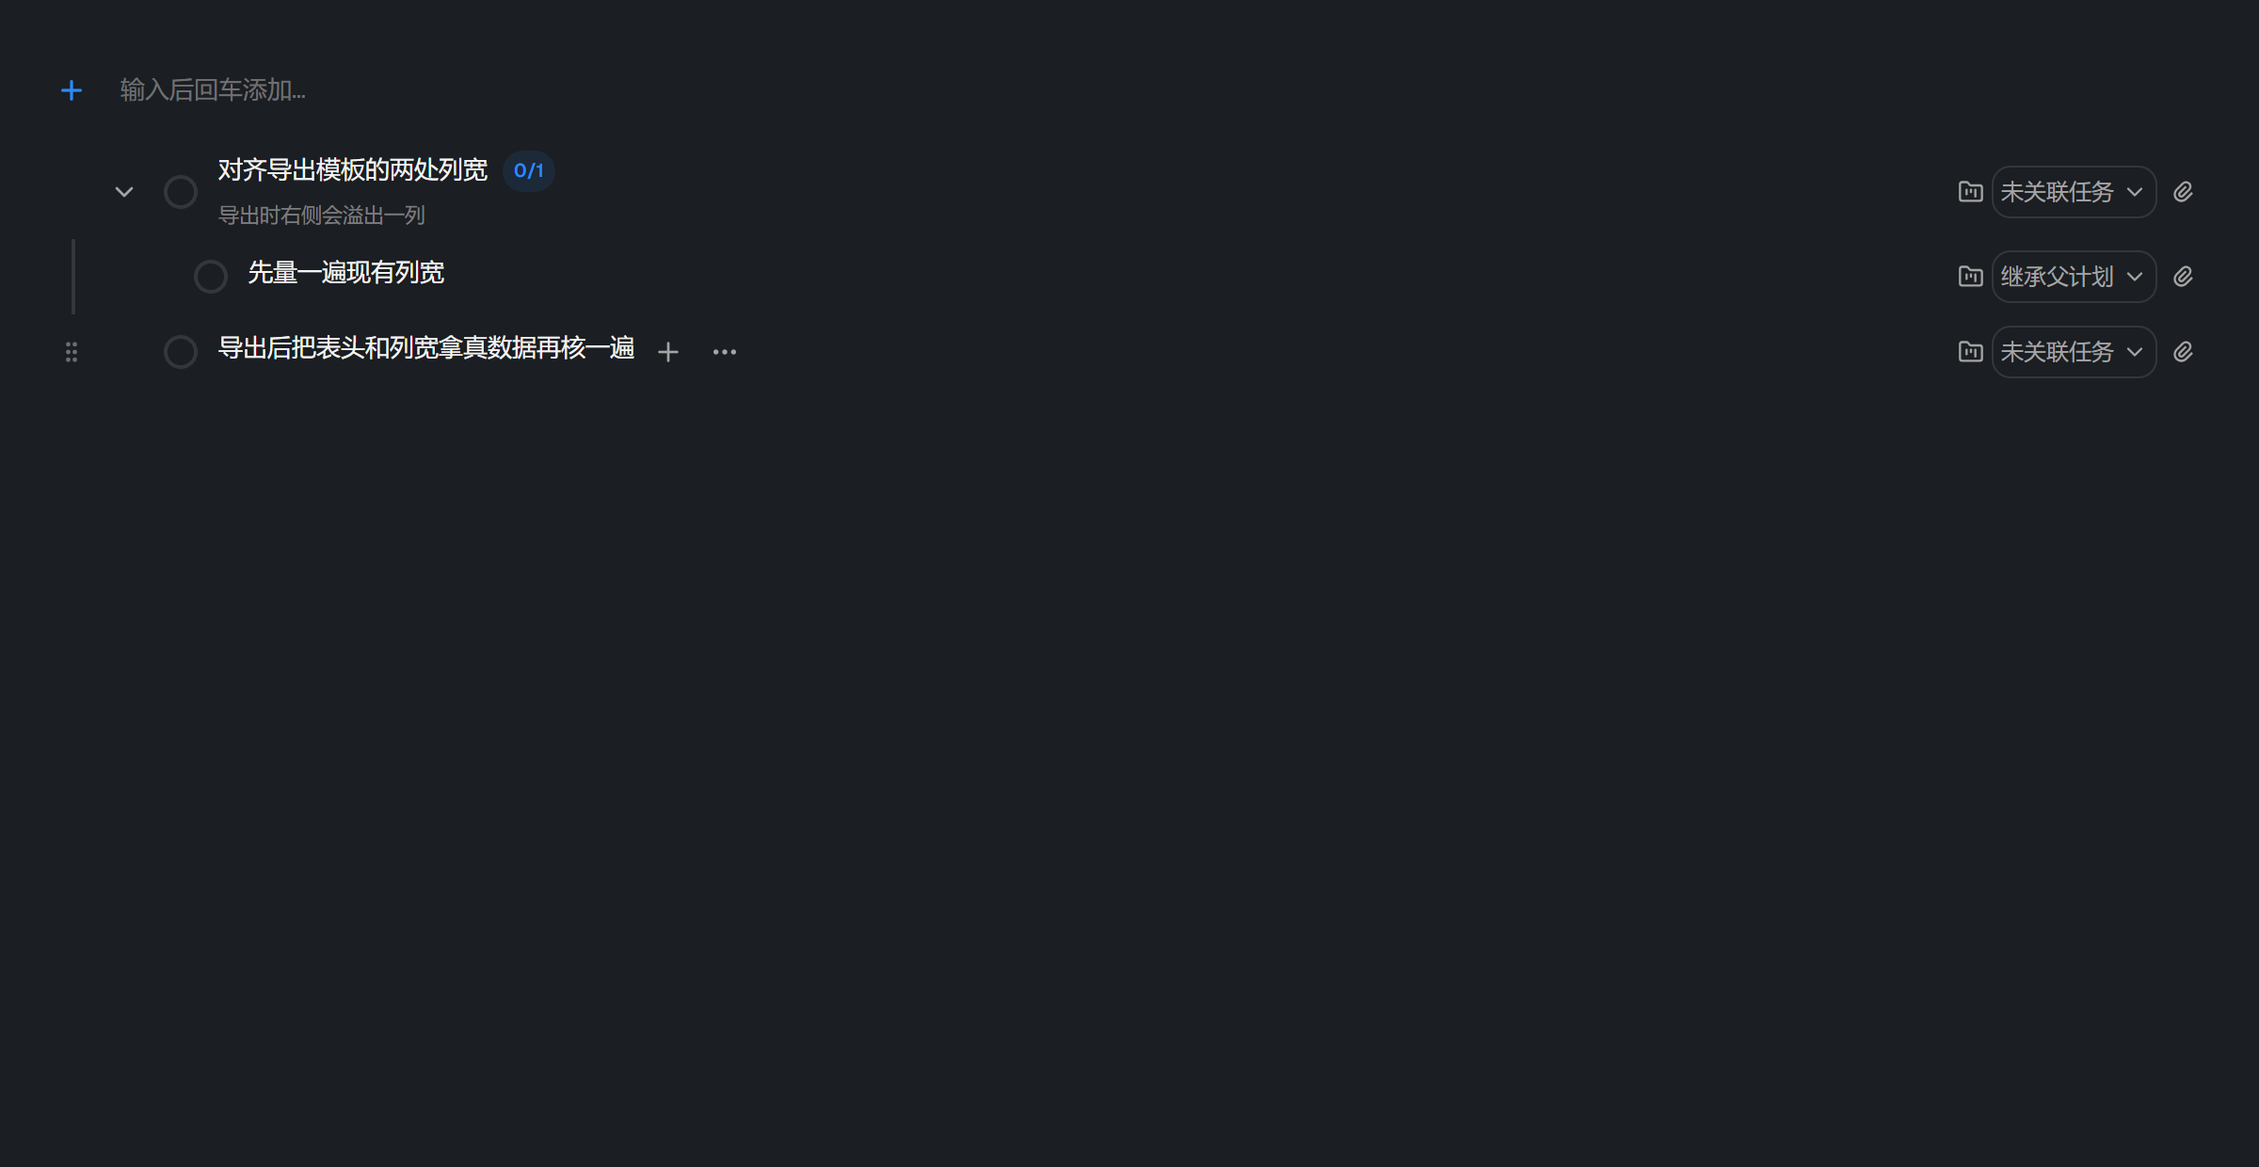
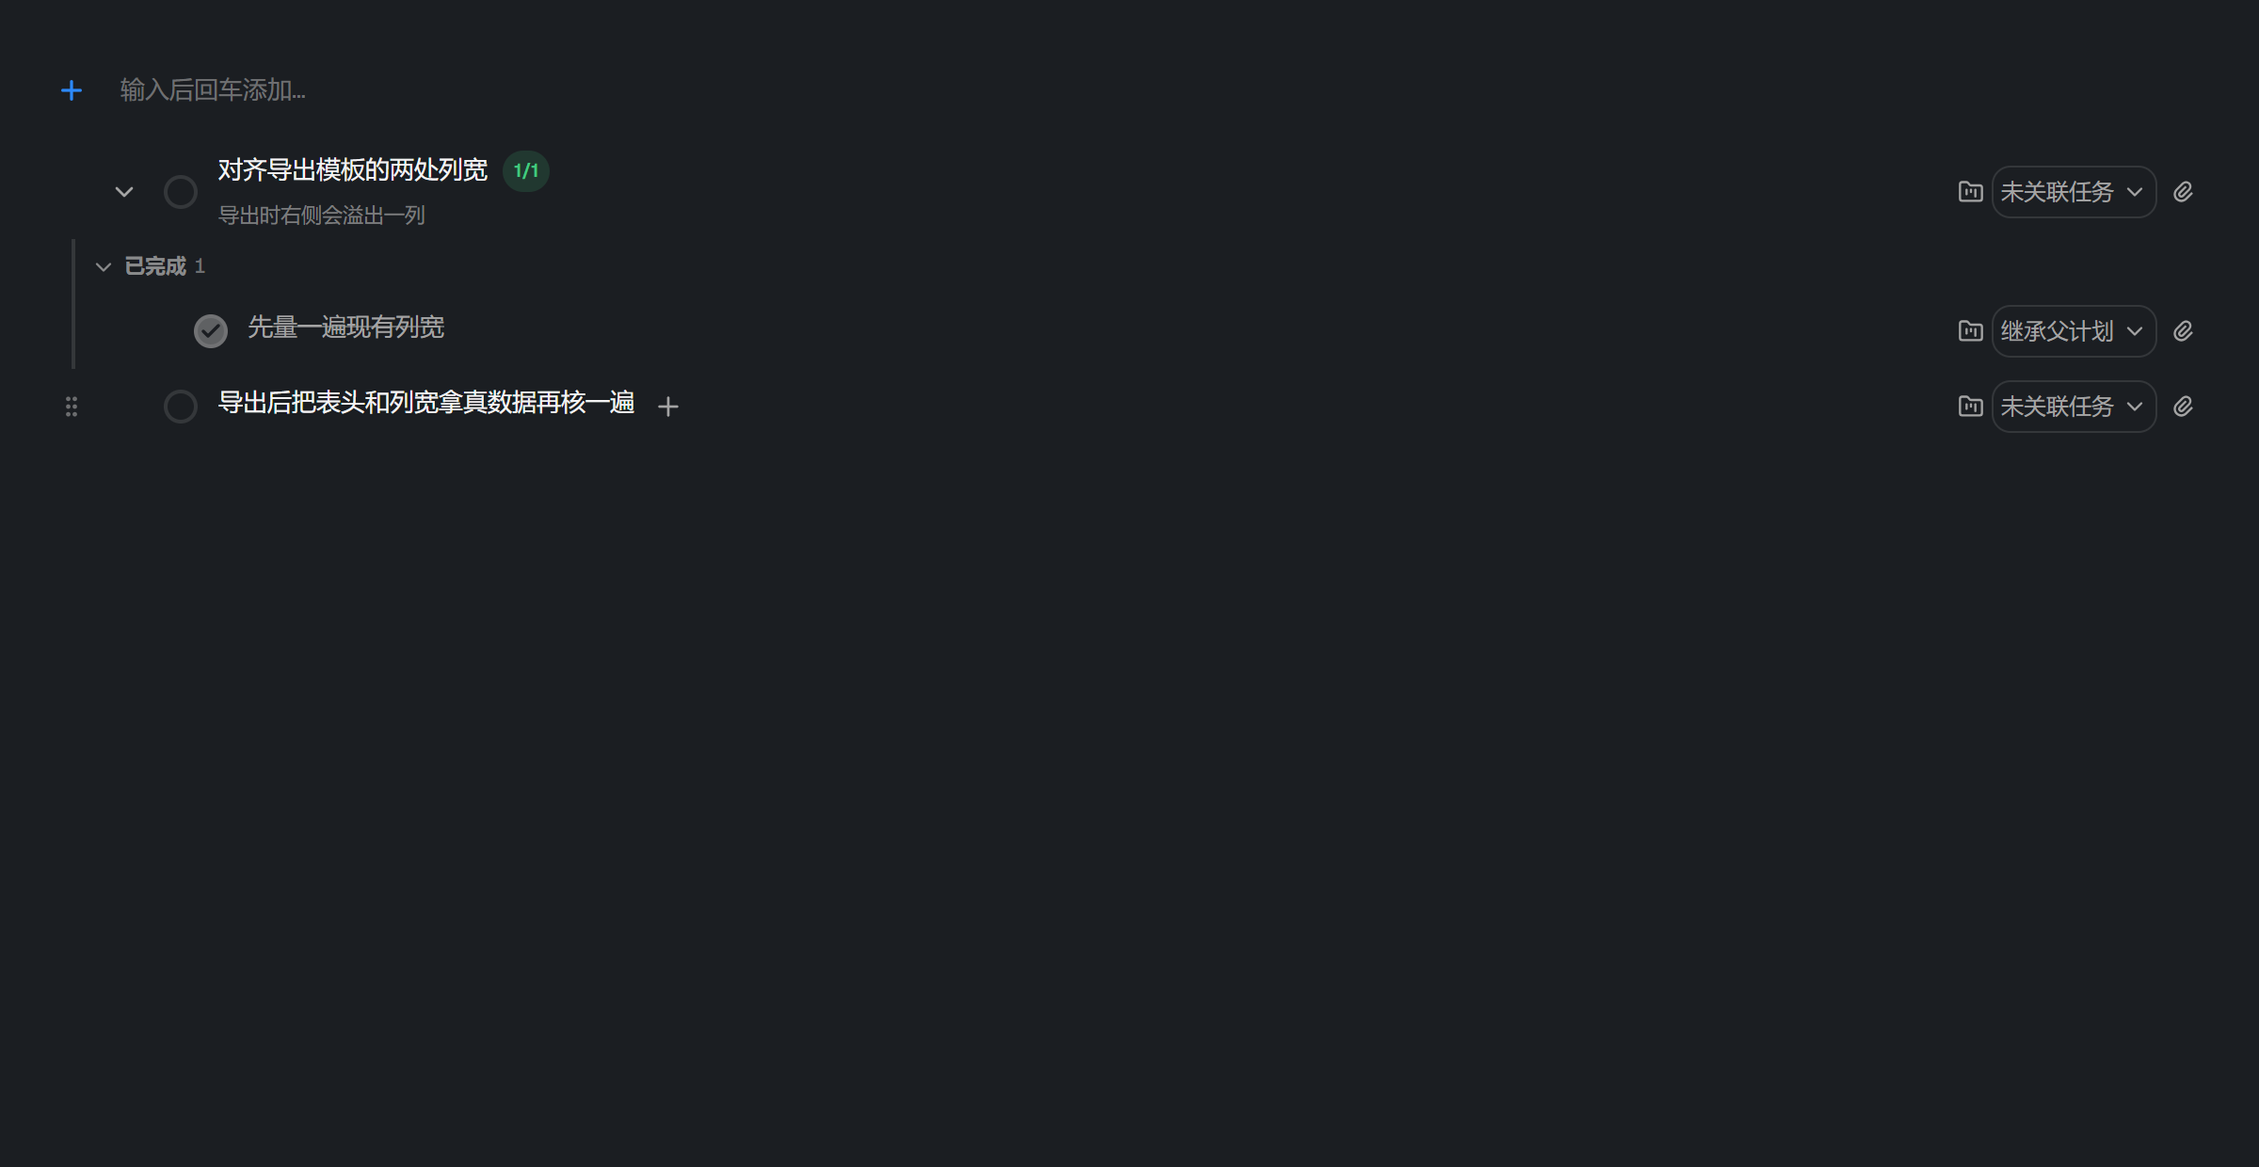
feat(计划)：已完成分组头可折叠 + 完成态改中性灰；行上删掉 ⋯，备注行成为详情入口
已完成：细线夹居中的「已完成」换成可折叠分组头（⌄ 已完成 2，带计数、aria-expanded），收起只是不渲染、数据不动；勾选框完成态从品牌蓝改中性灰实心 —— 一整组连成一片时品牌蓝会把它们喊成「还要注意」（改在 shared.tsx 的 StatusButton，大纲/看板/归档/纸片一起变）。行上：「更多 ⋯」删掉，开详情就是点标题；标题下面那行备注也成了入口，点它进右栏时光标直接落在备注里（点标题则落标题）。

验证：npm run verify 退出 0；夹具新增完成分组折叠断言、点备注行后焦点在备注、行上不再有「更多」按钮。

diff --git a/src/features/plans/views/outline.tsx b/src/features/plans/views/outline.tsx
@@ -1,5 +1,5 @@
 import { Fragment, useEffect, useMemo, useRef, useState } from "react";
-import { ChevronRight, GripVertical, MoreHorizontal, Plus } from "lucide-react";
+import { ChevronRight, GripVertical, Plus } from "lucide-react";
 import { useTranslation } from "react-i18next";
 import {
   childrenOf,
@@ -32,6 +32,14 @@ import { TaskDetail } from "@/features/plans/views/task-detail";
 const INDENT = 20;
 
 /**
+ * 选中的是哪一条、进来先看哪儿。
+ *
+ * 点标题和点标题下那行备注都开右栏，但落点不同：点备注就是为了看/续写备注，
+ * 光标还塞回标题里就白点了。
+ */
+type Selection = { id: string; focus: "title" | "note" };
+
+/**
  * 拖动排序的状态与回调，由 OutlineView 持有、逐层传给任务行。
  *
  * 为什么状态放在树的根：一次拖动要同时改两行（拖起来的那行变淡、指针下那行露出落点线），
@@ -59,12 +67,18 @@ export function OutlineView({ date, searchTaskId, searchToken }: { date: string;
   const inputRef = useRef<HTMLInputElement>(null);
   const [input, setInput] = useState("");
   const reorderTask = usePlans((s) => s.reorderTask);
-  const [selectedId, setSelectedId] = useState<string | null>(null);
+  const [selected, setSelected] = useState<Selection | null>(null);
   /** 选中项要跟当天任务对得上：被删掉、被挪到别的日子之后，这一栏自己收起来 */
-  const selected = selectedId ? tasks.find((task) => task.id === selectedId) : undefined;
+  const selectedTask = selected ? tasks.find((task) => task.id === selected.id) : undefined;
   useEffect(() => {
-    if (selectedId && !selected) setSelectedId(null);
-  }, [selectedId, selected]);
+    if (selected && !selectedTask) setSelected(null);
+  }, [selected, selectedTask]);
+
+  /* ── 选中：点标题或标题下那行备注 ── */
+
+  /** 点同一条的同一处 = 收起；点它的备注行 = 换落点但不收起 */
+  const select = (id: string, focus: Selection["focus"]) =>
+    setSelected((prev) => (prev?.id === id && prev.focus === focus ? null : { id, focus }));
 
   /* ── 拖动排序 ── */
 
@@ -204,24 +218,29 @@ export function OutlineView({ date, searchTaskId, searchToken }: { date: string;
             list={roots}
             dividerIndent={4}
             label={t("plans.doneGroup")}
-            render={(task) => <TaskRow date={date} task={task} depth={0} drag={rowDrag} selectedId={selectedId} onSelect={setSelectedId} searchTaskId={searchTaskId} revealIds={revealIds} searchToken={searchToken} />}
+            render={(task) => <TaskRow date={date} task={task} depth={0} drag={rowDrag} selectedId={selected?.id ?? null} onSelect={select} searchTaskId={searchTaskId} revealIds={revealIds} searchToken={searchToken} />}
           />
         )}
       </div>
 
-      {selected && (
+      {selectedTask && (
         <aside
           aria-label={t("plans.detail")}
           className="w-80 shrink-0 rounded-xl border border-border bg-card/40"
         >
-          <TaskDetail date={date} task={selected} onClose={() => setSelectedId(null)} />
+          <TaskDetail date={date} task={selectedTask} focus={selected!.focus} onClose={() => setSelected(null)} />
         </aside>
       )}
     </div>
   );
 }
 
-/** 渲染一行列表（根级或子级），已完成后插入分组分隔线 */
+/**
+ * 渲染一行列表（根级或子级），完成项前插一个分组头。
+ *
+ * 头是可折叠的：一整组完成项是「回头看一眼」用的，平时该让位给还没做的；
+ * 计数跟头在一起，收起后也知道自己完成了几条。
+ */
 function RowsWithDoneDivider({
   list,
   render,
@@ -233,22 +252,29 @@ function RowsWithDoneDivider({
   dividerIndent: number;
   label: string;
 }) {
+  const [doneOpen, setDoneOpen] = useState(true);
   const activeCount = list.filter((t) => !t.done).length;
+  const doneCount = list.length - activeCount;
   return (
     <>
       {list.map((task, idx) => (
         <Fragment key={task.id}>
-          {idx === activeCount && activeCount > 0 && activeCount < list.length && (
-            <div
-              className="flex items-center gap-2 py-1.5 text-[10px] font-semibold tracking-wide text-muted-foreground/70"
-              style={{ paddingLeft: dividerIndent }}
+          {doneCount > 0 && idx === activeCount && (
+            <button
+              type="button"
+              onClick={() => setDoneOpen(!doneOpen)}
+              aria-expanded={doneOpen}
+              className="flex w-fit items-center gap-1 rounded-lg py-1.5 pr-2 text-[11px] font-semibold text-muted-foreground/80 transition-colors hover:bg-surface-hover hover:text-foreground"
+              style={{ paddingLeft: dividerIndent + 4 }}
             >
-              <span className="h-px flex-1 bg-border" />
+              <ChevronRight
+                className={cn("size-3.5 transition-transform duration-200", doneOpen && "rotate-90")}
+              />
               {label}
-              <span className="h-px flex-1 bg-border" />
-            </div>
+              <span className="font-medium tabular-nums text-muted-foreground/60">{doneCount}</span>
+            </button>
           )}
-          {render(task)}
+          {(idx < activeCount || doneOpen) && render(task)}
         </Fragment>
       ))}
     </>
@@ -289,7 +315,7 @@ function RowIcon({ title, onClick, children }: { title: string; onClick: () => v
  * 也不再需要在行里判断「点到行外算不算保存」。拖动把手、加子任务、更多
  * 挤在标题后面显形：动作都在一块，不用去行两端各找一遍。
  */
-function TaskRow({ date, task, depth, drag, selectedId, onSelect, searchTaskId, revealIds, searchToken }: { date: string; task: PlanTask; depth: number; drag: RowDrag; selectedId: string | null; onSelect: (id: string | null) => void; searchTaskId?: string; revealIds: Set<string>; searchToken?: string }) {
+function TaskRow({ date, task, depth, drag, selectedId, onSelect, searchTaskId, revealIds, searchToken }: { date: string; task: PlanTask; depth: number; drag: RowDrag; selectedId: string | null; onSelect: (id: string, focus: Selection["focus"]) => void; searchTaskId?: string; revealIds: Set<string>; searchToken?: string }) {
   const { t } = useTranslation();
   const tasks = useDayTasks(date);
   const now = useNow();
@@ -308,7 +334,7 @@ function TaskRow({ date, task, depth, drag, selectedId, onSelect, searchTaskId, 
   useEffect(() => { if (revealIds.has(task.id)) setOpen(true); }, [revealIds, task.id, searchToken]);
 
   /** 再点一次就收起详情栏：选中是一个开关，不用专门去找关闭按钮 */
-  const select = () => onSelect(selectedId === task.id ? null : task.id);
+  const selectTitle = () => onSelect(task.id, "title");
 
   const addChild = () => {
     const v = childInput.trim();
@@ -398,7 +424,7 @@ function TaskRow({ date, task, depth, drag, selectedId, onSelect, searchTaskId, 
           <div className="flex min-w-0 items-start gap-1.5">
             <button
               type="button"
-              onClick={select}
+              onClick={selectTitle}
               title={t("plans.openDetail")}
               className="min-w-0 text-left text-[13px] leading-5"
             >
@@ -425,12 +451,9 @@ function TaskRow({ date, task, depth, drag, selectedId, onSelect, searchTaskId, 
               )}
             </button>
 
-            {/* 动作块：加子任务 + 更多，紧挨标题、悬停一起显形 —— 散在行两端谁都要先找一遍 */}
+            {/* 动作块：只剩加子任务，紧挨标题、悬停显形 —— 详情由标题本身开，不需要第三个按钮 */}
             <RowIcon title={t("plans.addChild")} onClick={() => setAdding(!adding)}>
               <Plus className="size-4" />
-            </RowIcon>
-            <RowIcon title={t("plans.moreActions")} onClick={select}>
-              <MoreHorizontal className="size-4" />
             </RowIcon>
 
             {task.link && (
@@ -447,14 +470,15 @@ function TaskRow({ date, task, depth, drag, selectedId, onSelect, searchTaskId, 
             )}
           </div>
 
-          {/* 备注：独占一行 */}
+          {/* 备注：独占一行，点它直接进右栏的备注 —— 这一行本来就是「看备注」的入口 */}
           {task.note && (
-            <span
-              className="min-w-0 truncate text-[11px] text-muted-foreground/70"
-              title={task.note}
+            <button
+              type="button"
+              onClick={() => onSelect(task.id, "note")}
+              className="min-w-0 truncate text-left text-[11px] text-muted-foreground/70 transition-colors hover:text-foreground"
             >
               {task.note}
-            </span>
+            </button>
           )}
         </div>
 

diff --git a/src/features/plans/views/task-detail.tsx b/src/features/plans/views/task-detail.tsx
@@ -163,10 +163,13 @@ function shiftMonth(anchor: { y: number; m: number }, delta: number) {
 export function TaskDetail({
   date,
   task,
+  focus,
   onClose,
 }: {
   date: string;
   task: PlanTask;
+  /** 进来先看哪儿：点标题进来放标题，点标题下那行备注进来放备注 */
+  focus: "title" | "note";
   /** 详情是列表右边的一栏，不是一个浮层 —— 关掉它就是把这一栏收起来 */
   onClose: () => void;
 }) {
@@ -182,15 +185,19 @@ export function TaskDetail({
   const [note, setNote] = useState(task.note ?? "");
   const [child, setChild] = useState("");
   const inputRef = useRef<HTMLInputElement>(null);
+  const noteRef = useRef<HTMLTextAreaElement>(null);
   /** commit 要在关闭回调里读最新草稿；回调本身得稳定，所以草稿走 ref */
   const draft = useRef({ title, note });
   draft.current = { title, note };
   /** 删除之后不该再回写草稿：那时行已经没了，写进去只会多一条撤销记录 */
   const gone = useRef(false);
-  /** 换一条任务时把光标放到标题上：换之前「点标题就能改」的肌肉记忆不用重新学 */
+  /** 换一条任务、或换落点（标题 ↔ 备注）时把光标放过去；光标停在末尾，点开就是为了接着写 */
   useEffect(() => {
-    inputRef.current?.focus({ preventScroll: true });
-  }, [task.id]);
+    const target = focus === "note" ? noteRef.current : inputRef.current;
+    if (!target) return;
+    target.focus({ preventScroll: true });
+    target.setSelectionRange(target.value.length, target.value.length);
+  }, [task.id, focus]);
 
   const commit = () => {
     if (gone.current) return;
@@ -294,6 +301,7 @@ export function TaskDetail({
           <Field label={t("plans.noteLabel")}>
             {/* 文本域而不是单行输入：备注天然会写成几行，默认一行、往下自己拉 */}
             <textarea
+              ref={noteRef}
               rows={1}
               value={note}
               onChange={(e) => setNote(e.target.value)}

diff --git a/src/features/plans/fixtures/plan-outline.html b/src/features/plans/fixtures/plan-outline.html
@@ -18,7 +18,7 @@ const {todayStr,addDays}=await import('/src/features/plans/types.ts');
 const today=todayStr(),tomorrow=addDays(today,1);
 fixtures.plans={version:4,state:{days:{[today]:[
  {id:'task-1',parentId:null,title:'对齐导出模板的两处列宽',note:'导出时右侧会溢出一列',done:false,createdAt:1,updatedAt:1},
- {id:'task-2',parentId:'task-1',title:'先量一遍现有列宽',done:false,createdAt:1,updatedAt:1},
+ {id:'task-2',parentId:'task-1',title:'先量一遍现有列宽',done:true,createdAt:1,updatedAt:1},
  {id:'task-3',parentId:null,title:'导出后把表头和列宽拿真数据再核一遍',done:false,createdAt:2,updatedAt:2}
 ]}}};
 await import('/src/index.css');

diff --git a/src/features/plans/views/shared.tsx b/src/features/plans/views/shared.tsx
@@ -39,7 +39,8 @@ export function StatusButton({
         className={cn(
           "grid size-[18px] place-items-center rounded-full border-2 transition-colors duration-200",
           done
-            ? "border-brand bg-brand text-white"
+            ? // 完成态用中性灰：一整组完成项连成一片时，品牌蓝会把它们喊成「还要注意」
+              "border-muted-foreground/50 bg-muted-foreground/50 text-background"
             : status === "doing"
               ? "border-brand text-brand"
               : "border-muted-foreground/40 text-transparent hover:border-brand hover:text-brand/40",

diff --git a/src/lib/locales/zh.ts b/src/lib/locales/zh.ts
@@ -265,7 +265,6 @@ export const zh = {
     title: "计划管理",
     addPlaceholder: "输入后回车添加…",
     addChild: "添加子任务",
-    moreActions: "更多操作",
     closeDetail: "关闭详情",
     dragTask: "拖动排序（同一层级）",
     editTip: "点击标题编辑",

diff --git a/src/lib/locales/en.ts b/src/lib/locales/en.ts
@@ -268,7 +268,6 @@ export const en: AppMessages = {
     title: "Plans",
     addPlaceholder: "Type and press Enter…",
     addChild: "Add subtask",
-    moreActions: "More actions",
     closeDetail: "Close details",
     dragTask: "Drag to reorder siblings",
     editTip: "Click title to edit",

diff --git a/docs/plan-detail-panel.md b/docs/plan-detail-panel.md
@@ -20,7 +20,8 @@
 
 | 操作 | 结果 |
 |---|---|
-| 点标题 / 点行上的 ⋯ | 选中这一条，右栏显示详情；再点一次收起 |
+| 点标题 | 选中这一条，右栏显示详情，光标落在标题；再点一次收起 |
+| 点标题下那行备注 | 同样开右栏，但光标落在**备注**里（点它就是为了看/续写备注） |
 | 行上的 + | 就在这一行下面长出子任务输入框，回车即落库（右栏里也有同一入口） |
 | 日期 | 月历里点一天改期；今天 / 明天两个快捷键。**连同子任务一起挪**（`moveTaskToDate`）；挪到别的日子后右栏自动收起 |
 | 时间 / 关联 / 项目 | 原有的选择器，改完即生效 |
@@ -34,9 +35,10 @@
 撤销就变成逐字回退。其余字段一次改动就是一个动作，直写。
 标题里回车只落地、**不**收栏 —— 收栏是另一个动作。
 
-三个悬停才显形的控件（把手、`+`、`⋯`）都排在**标题后面**：动作挤在一处，
+两个悬停才显形的控件（把手、`+`）都排在**标题后面**：动作挤在一处，
 不用去行两端各找一遍。它们**常驻占位、只改透明度** —— 悬停才「挤出来」会让整行文字横向跳动。
 触屏没有悬停这回事，所以 `@media(hover:none)` 下一律常显。
+行上**没有**「更多 / ⋯」按钮：开详情就是点标题，多一个按钮只是多一个要找的东西。
 
 ![静止与悬停：动作块一起显形](screenshots/plan-outline-rows.png)
 
@@ -52,6 +54,18 @@
   它本来就是这一天的第一行任务。注意 `index.css` 有一条**不带 `@layer`** 的全局
   `:focus-visible { outline: 2px solid var(--ring) }`，它压得过 Tailwind 的 `outline-none`，
   所以无框输入框必须自己留内边距，否则聚焦时那圈蓝边会贴着文字。
+
+## 已完成分组
+
+完成项不再是「两条细线夹一个居中标签」，而是一个**可折叠的分组头**：`⌄ 已完成 2`。
+一整组完成项是「回头看一眼」用的，平时收起来让位给还没做的；计数跟着头走，
+收起来也知道完成了几条。收起只是不渲染，数据一条不动（`aria-expanded` 同步）。
+
+勾选框的完成态也从品牌蓝改成**中性灰实心**：一整组连成一片时，
+品牌蓝会把它们喊成「还要注意」。改的是 `views/shared.tsx` 的 `StatusButton`，
+所以大纲、看板、归档只读树、桌面纸片四处一起变。
+
+（完成项标题仍带删除线 —— 那是本应用既有的约定，参考图里只是褪色。）
 
 ## 纸片功能整体拆除（待办）
 
@@ -77,7 +91,8 @@ node scripts/shot-plan-outline.mjs                # 重新生成两张截图
 ```
 
 夹具 `src/features/plans/fixtures/plan-outline.html`（mock 原生 IPC + 真 `OutlineView`）
-断言的都是看得见的东西：开详情栏前后行的纵向几何一致、页面上一个浮层都没有、
-字段标签各一个、备注是文本域、标题回车后立刻反映到行上且右栏不关、
-选中可以再点一次收起、拖动与 ↑↓ 都能换序且落进 DOM 顺序、
+断言的都是看得见的东西：开详情栏前后行的纵向几何一致、行上不再有「更多」按钮、页面上零浮层、
+字段标签各一个、备注是文本域、点备注行进右栏时焦点在备注而非标题、
+标题回车后立刻反映到行上且右栏不关、选中可以再点一次收起、
+完成分组头带 `aria-expanded` 且收起不丢数据、拖动与 ↑↓ 都能换序且落进 DOM 顺序、
 改期后今天为空而明天拿到整棵子树、空状态点击后焦点回到添加框。
